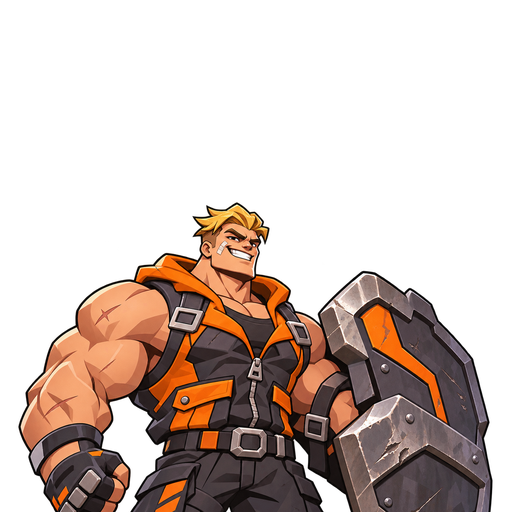
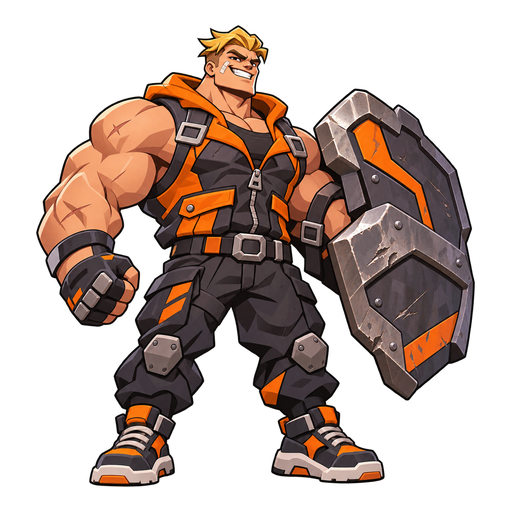
fix(art): retain hero textures and repair selection framing and text

diff --git a/scripts/prepare_hero_portraits.py b/scripts/prepare_hero_portraits.py
@@ -1,0 +1,38 @@
+"""Rebuild selection framing only from immutable approved Art repository sources."""
+import argparse,hashlib,json
+from pathlib import Path
+from PIL import Image,ImageOps
+import numpy as np
+from scipy import ndimage
+ROOT=Path(__file__).resolve().parents[1]
+def sha(p):return hashlib.sha256(p.read_bytes()).hexdigest()
+def framed(im):
+    im=im.convert('RGBA');im=im.crop(im.getbbox())
+    im=ImageOps.contain(im,(464,464),Image.Resampling.LANCZOS)
+    out=Image.new('RGBA',(512,512));out.paste(im,((512-im.width)//2,(512-im.height)//2));return out
+
+def main(source_root):
+    for slug in ['alpha-chad','block-queen']:
+        folder=ROOT/'assets/art-candidates'/slug/'cpk-v1-proposed'
+        m=json.loads((folder/'manifest.json').read_text())
+        source=source_root/m['source']['path'];assert sha(source)==m['source']['sha256']
+        framed(Image.open(source)).save(folder/'portrait.png')
+        m['files']['portrait.png']=sha(folder/'portrait.png')
+        m['portrait_derivation']='Full nonempty source bounds, aspect fit within 464x464, centred on transparent 512x512; no artwork edits.'
+        (folder/'manifest.json').write_text(json.dumps(m,indent=2)+'\n')
+    source=source_root/'source/characters/pixel-vixen/creator-approved/pixel-vixen-approved-source.png'
[1 lines of base64/hex data omitted]
+    assert sha(source)==expected
+    a=np.array(Image.open(source).convert('RGBA'))
+    mask=(a[:,:,3]>32)&~((a[:,:,0]>180)&(a[:,:,1]<70)&(a[:,:,2]<90))
+    labels,_=ndimage.label(mask)
+    components=[(n,r) for n,r in enumerate(ndimage.find_objects(labels),1) if r is not None and np.count_nonzero(labels[r]==n)>2000]
+    components.sort(key=lambda c:(int((c[1][0].start+c[1][0].stop)/2/179),c[1][1].start))
+    label,region=components[0];c=a[region].copy();c[:,:,3]=np.where(labels[region]==label,c[:,:,3],0);c[c[:,:,3]==0]=0
+    # Native source pixels with padding, never upscale the 96px runtime frame.
+    master=Image.fromarray(c);portrait=Image.new('RGBA',(master.width+32,master.height+32));portrait.paste(master,(16,16))
+    folder=ROOT/'assets/production/pixel-vixen/cpk-v1';out=folder/'selection-portrait.png';portrait.save(out)
+    y,x=region
+    (folder/'selection-portrait.json').write_text(json.dumps({'source_repository':'pedro-ai-coder/clutchpunks-art-pipeline','source_sha256':expected,'source_bounds_xywh':[x.start,y.start,x.stop-x.start,y.stop-y.start],'derivation':'First approved idle pose at native source resolution, isolated alpha component, 16px transparent padding','dimensions':portrait.size,'sha256':sha(out)},indent=2)+'\n')
+if __name__=='__main__':
+    p=argparse.ArgumentParser();p.add_argument('source_root',type=Path);main(p.parse_args().source_root)

diff --git a/scripts/verify_proposed_cpk.py b/scripts/verify_proposed_cpk.py
@@ -6,10 +6,11 @@ def validate():
     for slug in ['byte-baddie','alpha-chad','block-queen']:
         folder=ROOT/'assets/art-candidates'/slug/'cpk-v1-proposed'
         m=json.loads((folder/'manifest.json').read_text())
+        assert m['design_status']=='APPROVED_EXACT_SOURCE' and m['source']['approval']=='CPK-ART-THREE-HERO-SOURCES-2026-11-12-01'
         assert m['status']=='PROPOSED' and m['runtime_authorization']=='PREVIEW_ONLY'
         assert m['source']['candidate_count']==1 and len(m['source']['sha256'])==64
         assert len(m['states'])==6
         for name,checksum in m['files'].items():
             assert hashlib.sha256((folder/name).read_bytes()).hexdigest()==checksum, (slug,name)
-    print('PASS: three PROPOSED candidates, exact derived PNG hashes and six state contracts')
+    print('PASS: three approved source identities / preview derivatives, exact derived PNG hashes and six state contracts')
 if __name__=='__main__': validate()

diff --git a/scripts/verify_six_hero_review.py b/scripts/verify_six_hero_review.py
@@ -24,6 +24,11 @@ def validate():
     path = Path(vixen['atlas_path'])
     assert hashlib.sha256((ROOT/path).read_bytes()).hexdigest() == vixen['atlas_sha256']
     sources.append(path.as_posix())
+    portrait = json.loads((ROOT/VIXEN/'selection-portrait.json').read_text())
+    path = VIXEN/'selection-portrait.png'
+    assert portrait['source_sha256'] == vixen['source_sha256']
+    assert hashlib.sha256((ROOT/path).read_bytes()).hexdigest() == portrait['sha256']
+    sources.append(path.as_posix())
     # Existing verifiers independently pin Cool Kid and all legacy female assets.
     from verify_cool_kid_cpk import validate as cool_kid
     cool_kid()
